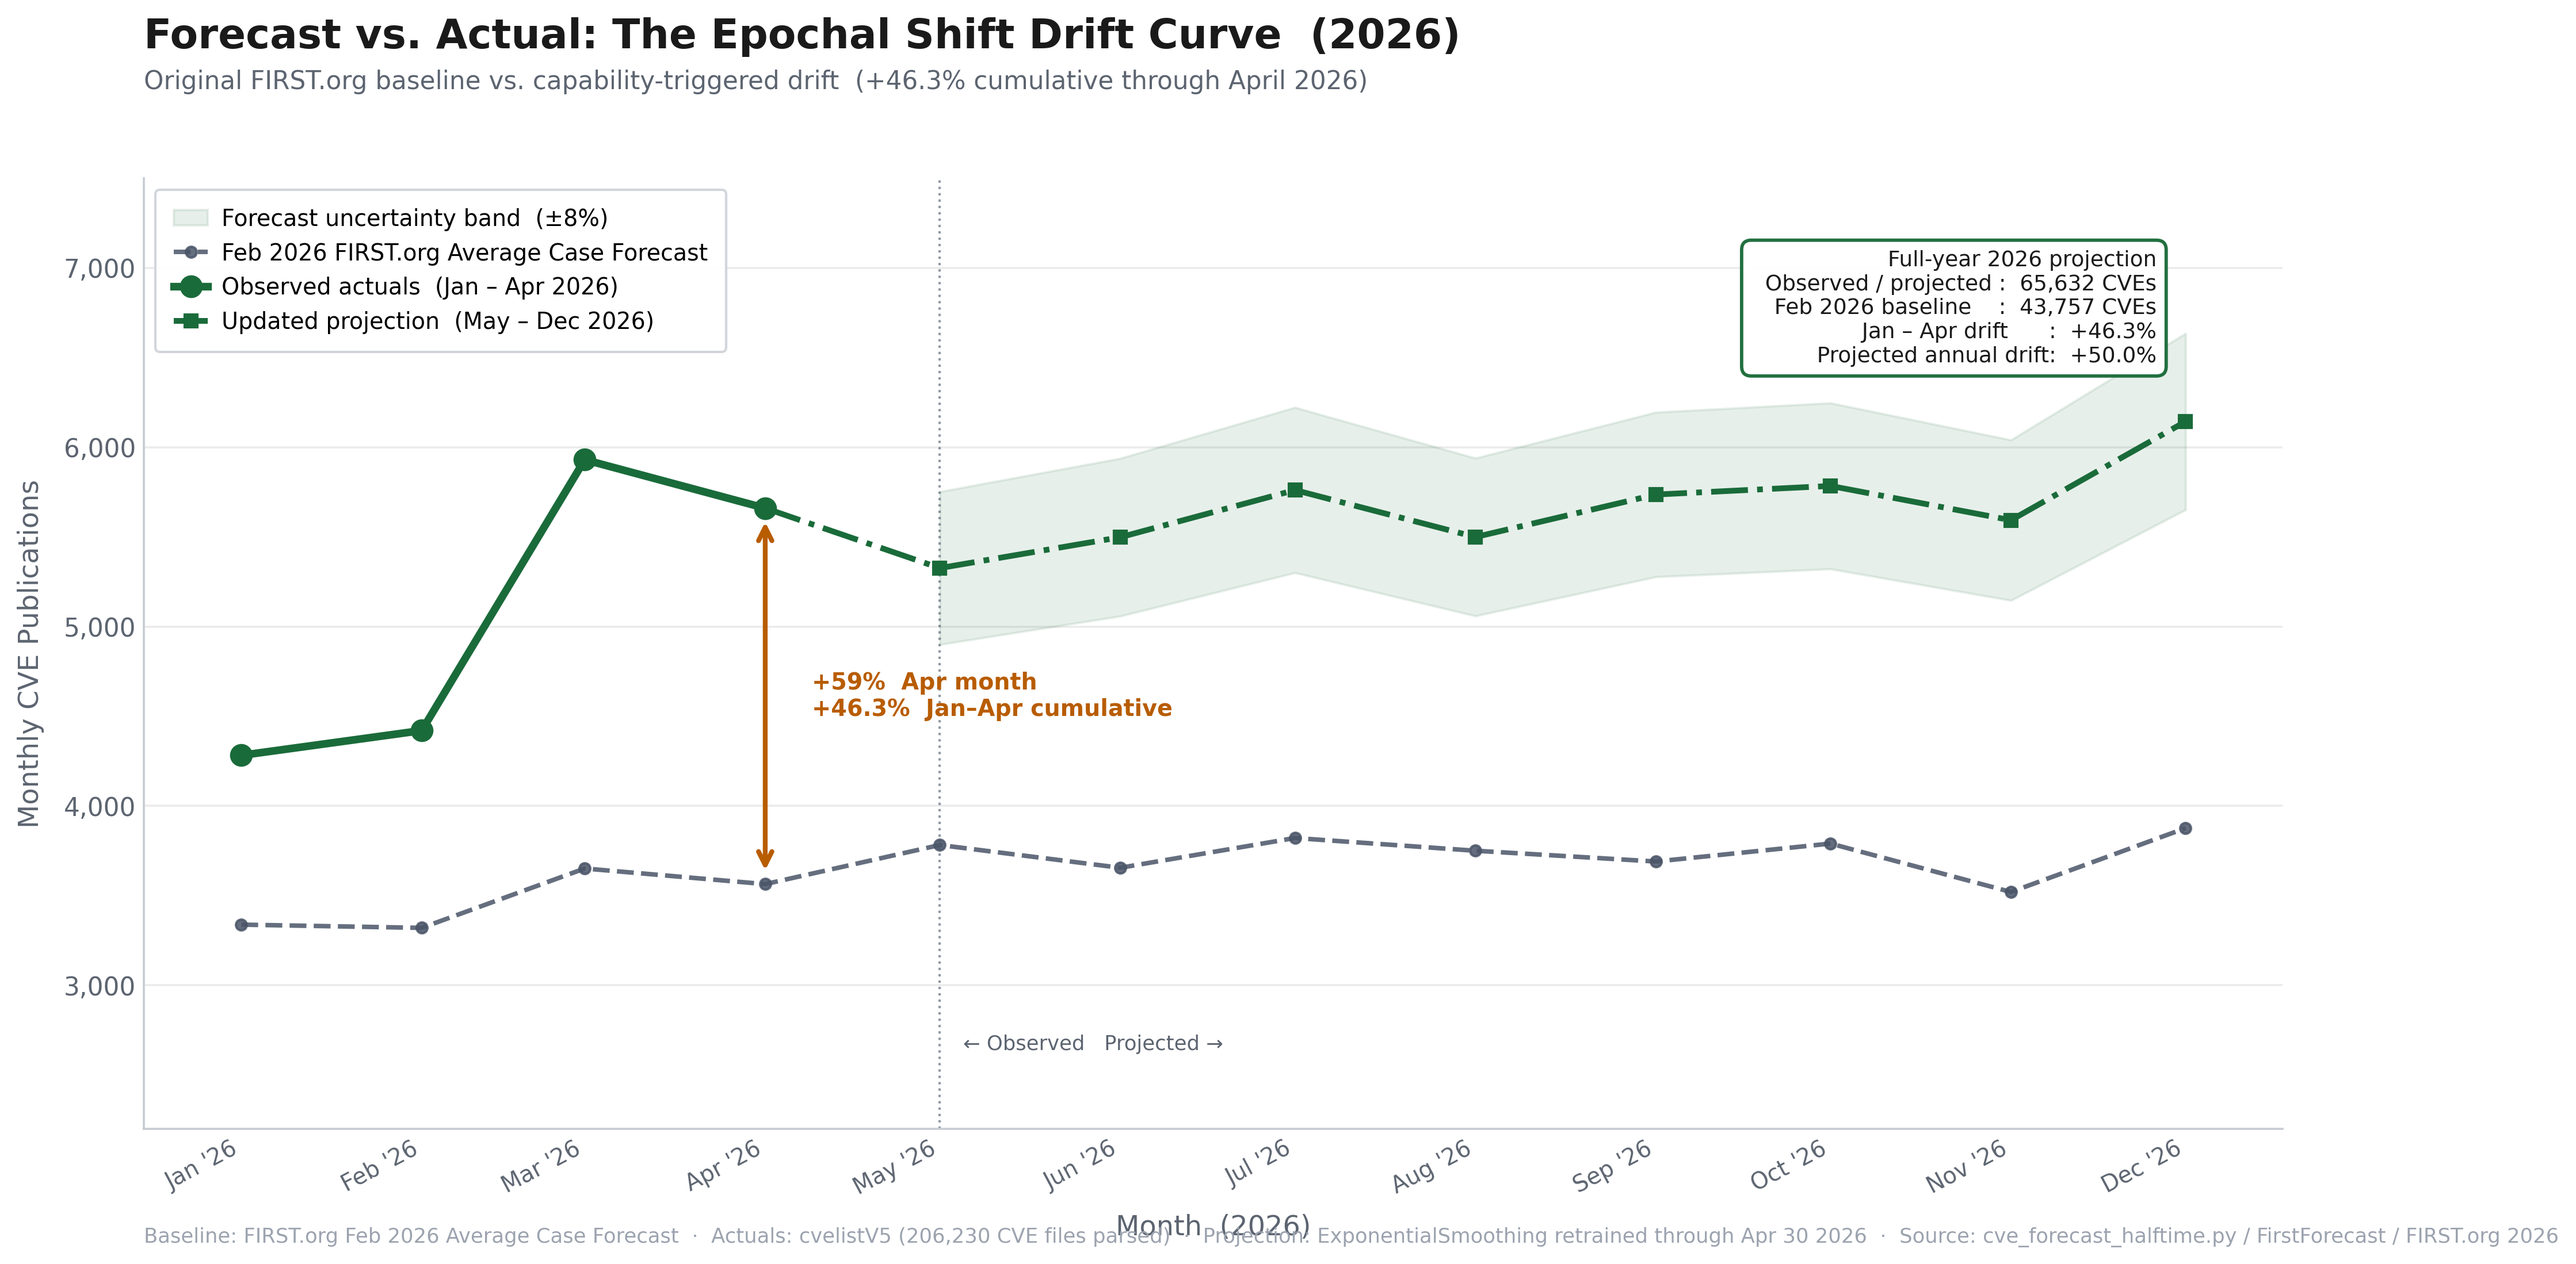
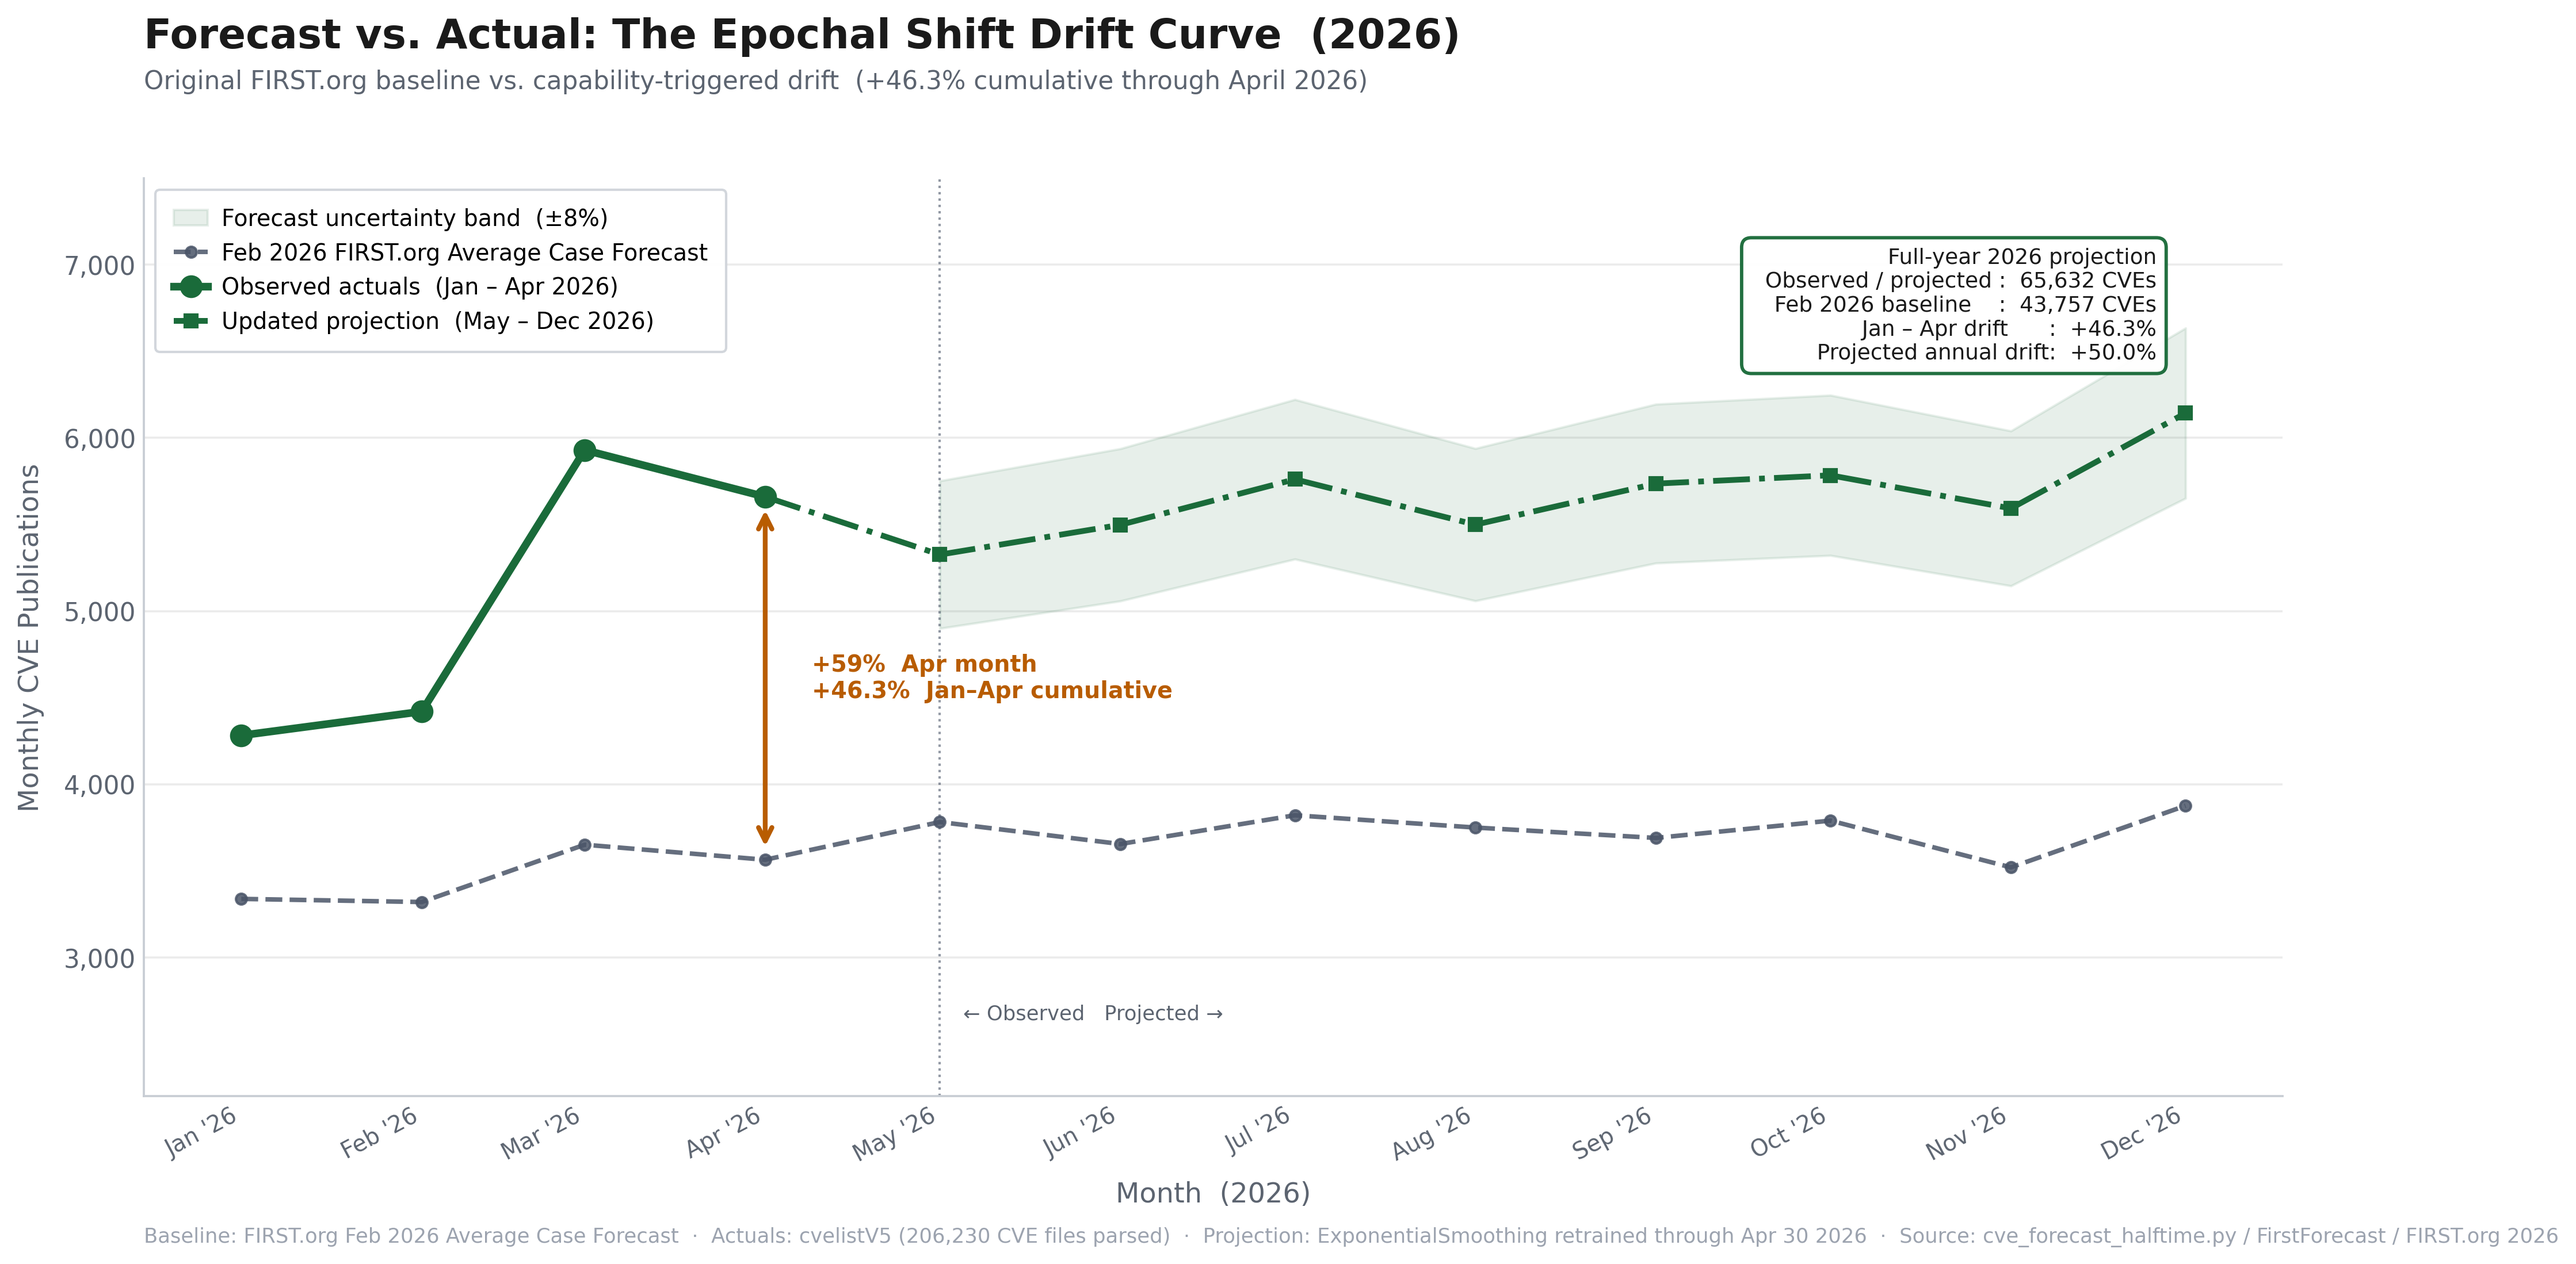
Fix footer/x-axis label overlap on Epochal Shift chart
Rotated tick labels (28°) extend below the default bottom margin and
clip the footer source note. Override bottom margin to 0.135 for that
chart only, leaving CPE Explosion and Rain vs. Flood unchanged.

diff --git a/generate_blog_visuals.py b/generate_blog_visuals.py
@@ -442,7 +442,8 @@ def chart_epochal_shift() -> None:
     ci_lo = proj * 0.92
 
     fig, ax = plt.subplots(figsize=(FIG_W, FIG_H))
-    fig.subplots_adjust(**MARG)
+    # Rotated tick labels need extra bottom clearance to avoid footer overlap
+    fig.subplots_adjust(**{**MARG, "bottom": 0.135})
 
     # CI shading
     ax.fill_between(proj_months, ci_lo, ci_hi,
